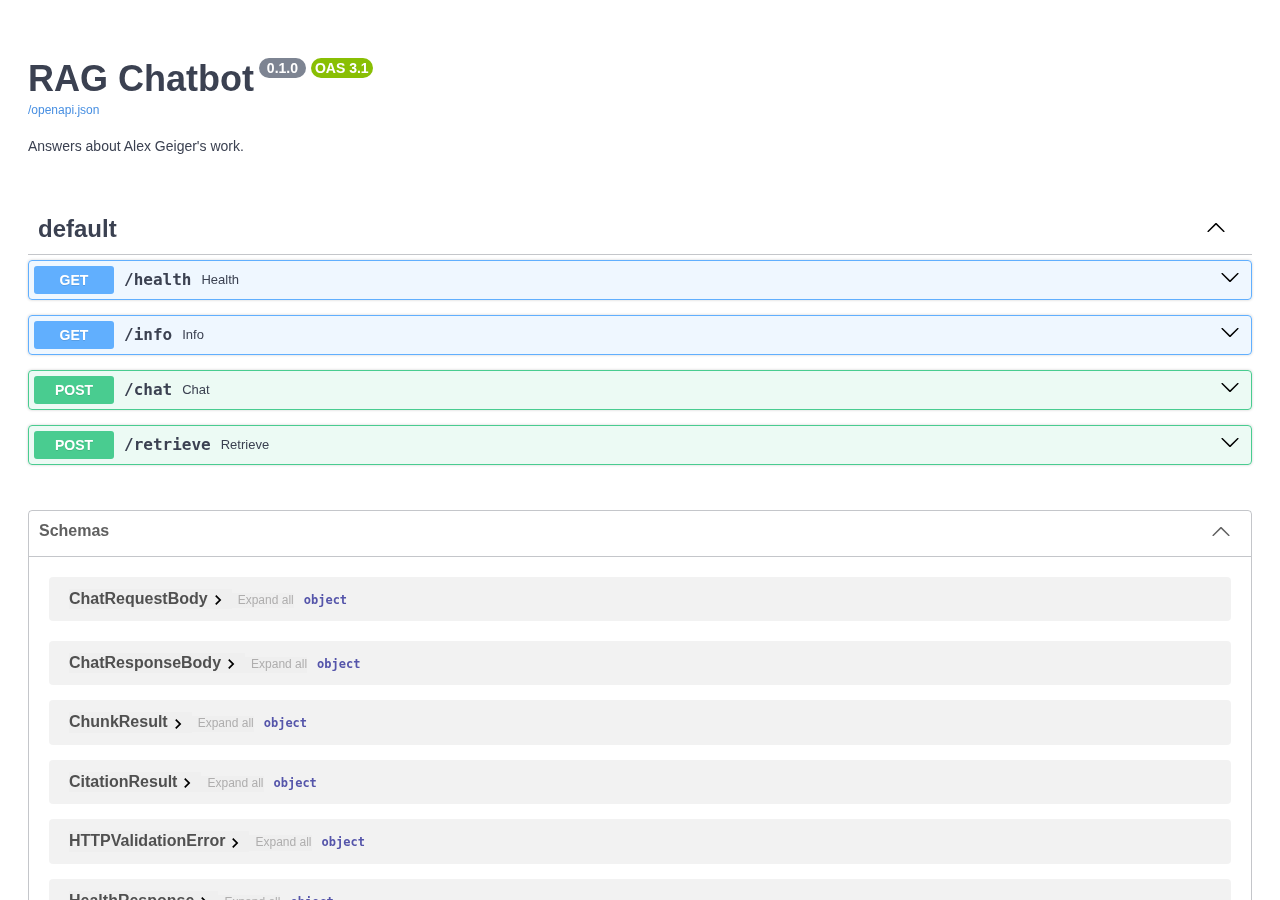
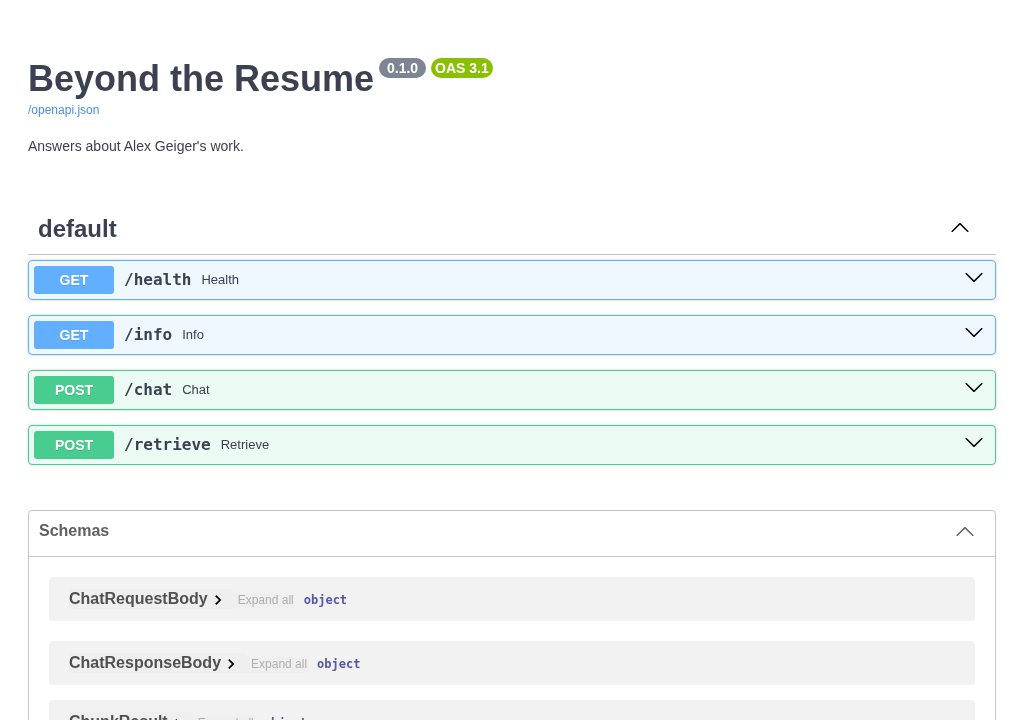
rename api title and docs image

diff --git a/src/rag_chatbot/api/RagApi.py b/src/rag_chatbot/api/RagApi.py
@@ -21,7 +21,7 @@ class RagApi:
         self.max_query_chars = runtime.settings.guardrails.max_question_chars
 
     def build(self) -> FastAPI:
-        app = FastAPI(title="RAG Chatbot", version="0.1.0", description="Answers about Alex Geiger's work.")
+        app = FastAPI(title="Beyond the Resume", version="0.1.0", description="Answers about Alex Geiger's work.")
         protected = [Depends(self.guard)]
 
         @app.get("/health", response_model=HealthResponse)
